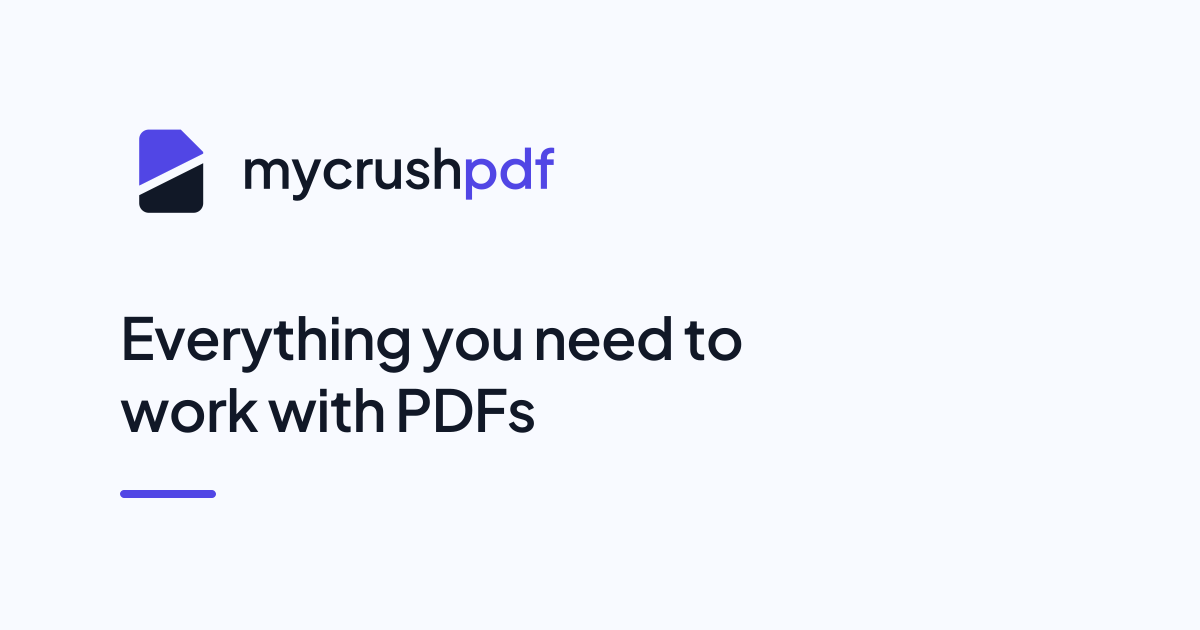
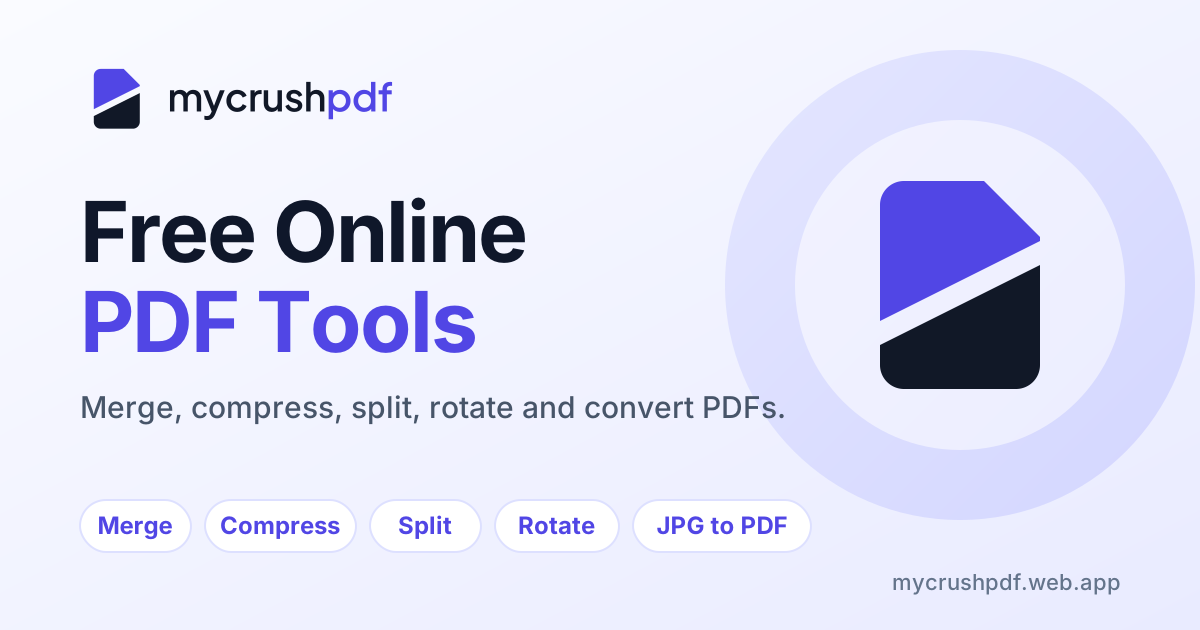
Fix Open Graph and Twitter preview images

diff --git a/frontend/public/index.html b/frontend/public/index.html
@@ -13,12 +13,13 @@
         <meta property="og:description" content="Use free online PDF tools to merge, compress, split, organize and convert PDF files. Files are processed in your browser, with no signup required." />
         <meta property="og:type" content="website" />
         <meta property="og:site_name" content="mycrushpdf" />
-        <meta property="og:image" content="https://mycrushpdf.com/og-image.png" />
+        <meta property="og:image" content="https://mycrushpdf.web.app/og-image.png" />
+        <meta property="og:image:type" content="image/png" />
         <meta property="og:image:width" content="1200" />
         <meta property="og:image:height" content="630" />
-        <meta property="og:image:alt" content="mycrushpdf – Everything you need to work with PDFs" />
+        <meta property="og:image:alt" content="mycrushpdf – Free online PDF tools: merge, compress, split, rotate and convert PDFs" />
         <meta name="twitter:card" content="summary_large_image" />
-        <meta name="twitter:image" content="https://mycrushpdf.com/og-image.png" />
+        <meta name="twitter:image" content="https://mycrushpdf.web.app/og-image.png" />
         <link rel="icon" href="/favicon.ico" sizes="any" />
         <link rel="icon" type="image/svg+xml" href="/favicon.svg" />
         <link rel="preload" as="image" href="/brand/mycrushpdf-logo.svg" type="image/svg+xml" />

diff --git a/frontend/scripts/build_og_image.py b/frontend/scripts/build_og_image.py
@@ -1,0 +1,45 @@
+# Builds public/og-image.png (1200x630) for Open Graph / Twitter cards.
+# Uses only the project's own logo and brand colours (see build_brand.py); no external assets.
+# Fonts: Inter (SIL OFL) for text. Run: python3 scripts/build_og_image.py
+# Note: scripts/build_brand.py also writes og-image.png; run this script afterwards if you re-run it.
+from pathlib import Path
+
+import cairosvg
+
+PUB = Path(__file__).resolve().parent.parent / "public"
+PURPLE, NAVY, INK, MUTED = "#5146E5", "#111827", "#0F172A", "#475569"
+
+logo = (PUB / "brand" / "mycrushpdf-logo.svg").read_text()
+logo_inner = logo.split("</title>", 1)[1].rsplit("</svg>", 1)[0]  # 274x64 logo, wordmark already outlined
+UPPER = "M12 41V12a6 6 0 0 1 6-6h20l14 14v1z"
+LOWER = "M12 47l40-20v25a6 6 0 0 1-6 6H18a6 6 0 0 1-6-6z"
+
+chips = ["Merge", "Compress", "Split", "Rotate", "JPG to PDF"]
+x, chip_svg = 80, ""
+for c in chips:
+    w = int(len(c) * 13.4 + 44)
+    chip_svg += (
+        f'<rect x="{x}" y="500" width="{w}" height="52" rx="26" fill="#FFFFFF" stroke="#DDE0FF" stroke-width="2"/>'
+        f'<text x="{x + w / 2}" y="534" text-anchor="middle" font-family="Inter" font-weight="600" font-size="24" fill="{PURPLE}">{c}</text>'
+    )
+    x += w + 14
+
+svg = f'''<svg xmlns="http://www.w3.org/2000/svg" width="1200" height="630" viewBox="0 0 1200 630">
+<defs>
+  <linearGradient id="bg" x1="0" y1="0" x2="1" y2="1"><stop offset="0" stop-color="#FAFBFF"/><stop offset="1" stop-color="#E9EBFF"/></linearGradient>
+  <linearGradient id="glow" x1="0" y1="0" x2="1" y2="1"><stop offset="0" stop-color="#E4E6FF"/><stop offset="1" stop-color="#D3D6FF"/></linearGradient>
+</defs>
+<rect width="1200" height="630" fill="url(#bg)"/>
+<circle cx="960" cy="285" r="235" fill="url(#glow)"/>
+<circle cx="960" cy="285" r="165" fill="#FFFFFF" fill-opacity="0.55"/>
+<g transform="translate(832 157) scale(4)"><path d="{UPPER}" fill="{PURPLE}"/><path d="{LOWER}" fill="{NAVY}"/></g>
+<g transform="translate(80 62) scale(1.15)">{logo_inner}</g>
+<text x="80" y="262" font-family="Inter" font-weight="700" font-size="84" letter-spacing="-2" fill="{INK}">Free Online</text>
+<text x="80" y="352" font-family="Inter" font-weight="700" font-size="84" letter-spacing="-2" fill="{PURPLE}">PDF Tools</text>
+<text x="80" y="418" font-family="Inter" font-weight="500" font-size="30" fill="{MUTED}">Merge, compress, split, rotate and convert PDFs.</text>
+{chip_svg}
+<text x="1120" y="590" text-anchor="end" font-family="Inter" font-weight="500" font-size="22" fill="#64748B">mycrushpdf.web.app</text>
+</svg>'''
+
+cairosvg.svg2png(bytestring=svg.encode(), write_to=str(PUB / "og-image.png"), output_width=1200, output_height=630)
+print("wrote", PUB / "og-image.png")
